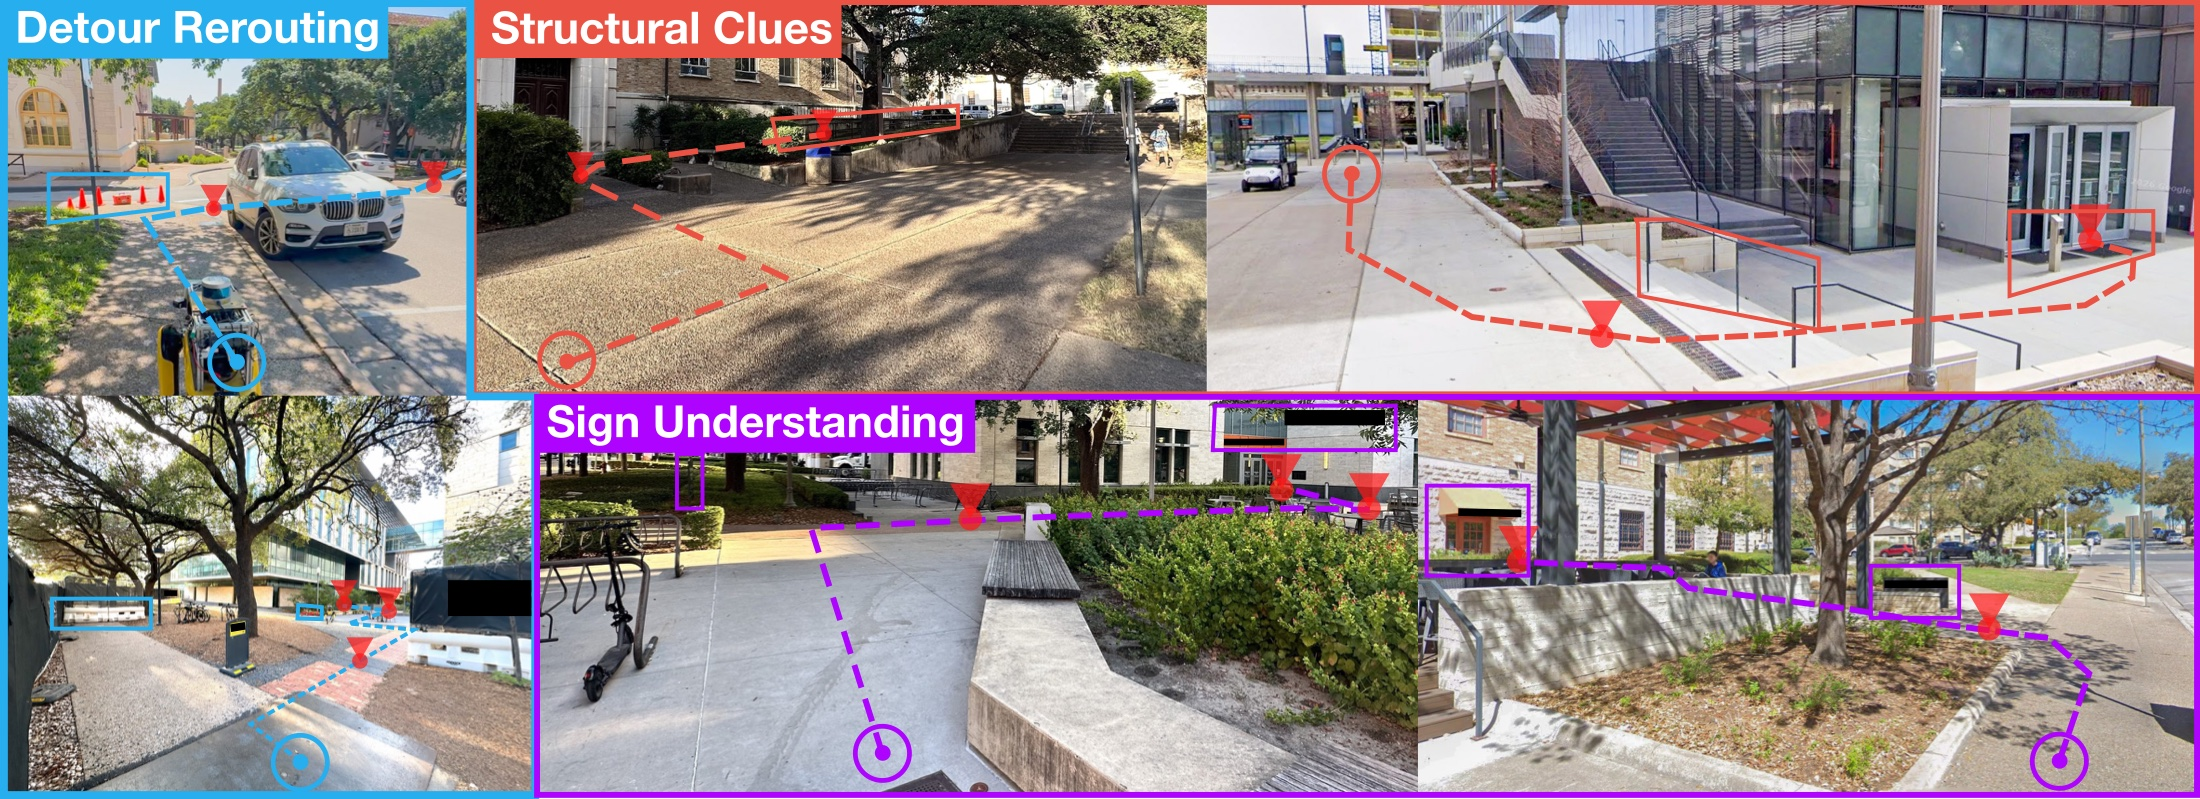
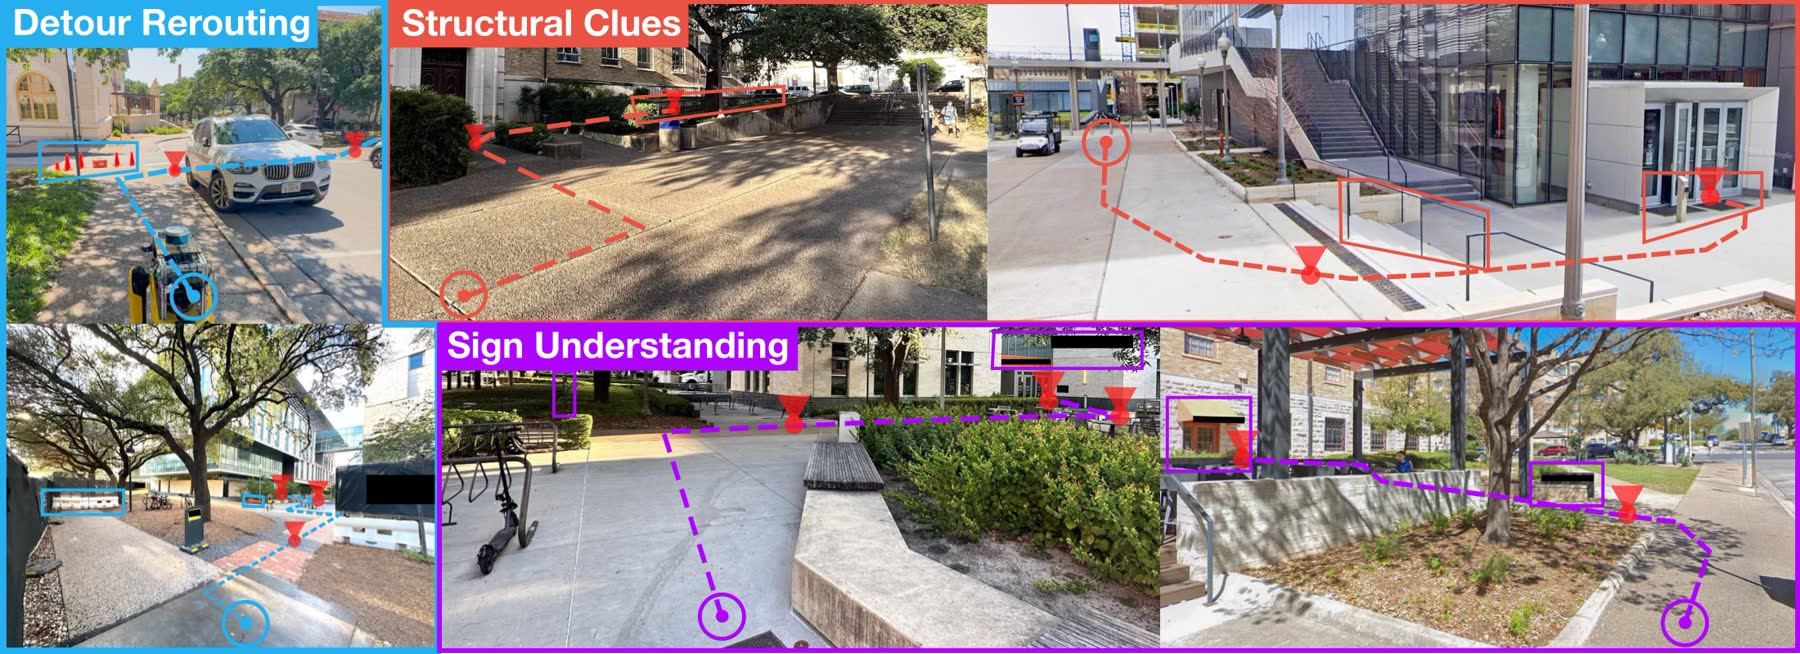
Optimized image and video loading

diff --git a/index.html b/index.html
@@ -64,19 +64,18 @@
   <section id="abstract">
     <div class="wrap">
       <p class="section-kicker">Abstract</p>
-      <h2>Discovering which cues matter, then planning around them.</h2>
+      <h2>Discovering which cues matter, then planning using them.</h2>
 
-      <p>Open-world mapless navigation from sparse language instructions requires resolving underspecified goals and
-        inferring which environmental cues are relevant for reaching the goal&mdash;e.g., interpreting ramps, signs, or
-        detours that reveal where to go or which route to take. Prior works rely on closed-set factor categories or
-        identify cues before motion planning, missing plan-dependent cues. We argue that pretrained Vision-Language
-        Models (VLMs) can discover novel instruction-relevant cues, but require adaptation to focus on which cues matter
-        and how they should influence motion planning. We present <strong>Foresight</strong>, a test-time framework in
-        which a finetuned VLM alternates between proposing image-space motion plans and critiquing them using the
-        language goal and visual context, with subsequent plans conditioned on prior critiques to enable iterative
-        motion refinement before execution. To align critiques and refinements with open-set behavior preferences, we
-        learn a reward model from human feedback and use it to post-train the VLM with reinforcement learning in the
-        plan-critique loop. In offline evaluations and 6 real-world environments, Foresight improves average task
+      <p>Open-world mapless navigation from sparse language instructions requires inferring which environmental cues
+        matter &mdash; the ramp, sign, or detour that reveals where to go. Prior works draw cues from closed-set factor
+        categories or identify them before motion planning, missing plan-dependent cues. Pretrained Vision-Language
+        Models (VLMs) can discover such cues, but require adaptation to act on them.</p>
+
+      <p>We present <strong>Foresight</strong>, a test-time framework in which a finetuned VLM alternates between
+        proposing image-space motion plans and critiquing them against the language goal and visual context,
+        conditioning each plan on prior critiques to refine its motion before execution. A reward model learned from
+        human feedback post-trains the VLM with reinforcement learning inside this loop, aligning it with open-set
+        behavior preferences. Across offline evaluations and 6 real-world environments, Foresight improves average task
         success by <strong>37%</strong> and reduces interventions per mission by <strong>52%</strong> relative to
         state-of-the-art test-time reasoning and foundation-model baselines, while running in real-time on a Jetson AGX
         Orin.</p>
@@ -100,8 +99,11 @@
     <div class="wrap-wide">
       <figure class="fig-single wide">
         <div class="imgwrap">
-          <a href="./static/images/mainfigure.png">
-            <img src="./static/images/mainfigure.png" alt="Foresight architecture overview" loading="lazy">
+          <a href="./static/images/mainfigure.jpg">
+            <picture>
+              <source srcset="./static/images/mainfigure.webp" type="image/webp">
+              <img src="./static/images/mainfigure.jpg" alt="Foresight architecture overview" loading="lazy">
+            </picture>
           </a>
         </div>
         <figcaption><strong>Figure 1.</strong> The Foresight loop. A single finetuned VLM alternates between proposing
@@ -115,12 +117,13 @@
   <section id="training">
     <div class="wrap">
       <p class="section-kicker">Training</p>
-      <h2>Supervised finetuning, then preference reinforcement learning.</h2>
+      <h2>Supervised finetuning, then reinforcement learning with human preferences.</h2>
 
-      <p>To adapt pretrained VLMs for iterative refinement, we introduce a two-stage training recipe. We first apply
+      <p>To adapt pretrained VLMs for iterative refinement, we propose a simple two-stage training recipe. We first
+        apply
         supervised finetuning to teach the VLM the structure of the plan-critique loop. We then learn a reward model
         from human preference annotations to judge motion plan quality, and use it to post-train the VLM with
-        reinforcement learning &mdash; aligning critiques and refinements with open-set behavior preferences that are
+        reinforcement learning, aligning critiques and refinements with open-set behavior preferences that are
         difficult to capture with hand-designed objectives alone.</p>
     </div>
 
@@ -156,9 +159,12 @@
       <figure class="fig-single wide">
         <div class="imgwrap">
           <a href="./static/images/trainingdataset-satellite.jpg">
-            <img src="./static/images/trainingdataset-satellite.jpg"
-              alt="Satellite map with disjoint training, offline evaluation, and online evaluation regions, alongside example training instructions and held-out test episodes with plan critiques."
-              loading="lazy">
+            <picture>
+              <source srcset="./static/images/trainingdataset-satellite.webp" type="image/webp">
+              <img src="./static/images/trainingdataset-satellite.jpg"
+                alt="Satellite map with disjoint training, offline evaluation, and online evaluation regions, alongside example training instructions and held-out test episodes with plan critiques."
+                loading="lazy">
+            </picture>
           </a>
         </div>
         <figcaption><strong>Figure 3.</strong> <em>Left:</em> training, offline evaluation, and online evaluation
@@ -185,9 +191,12 @@
       <figure class="fig-single wide">
         <div class="imgwrap">
           <a href="./static/images/testinglocations.jpg">
-            <img src="./static/images/testinglocations.jpg"
-              alt="Six real-world deployment scenes grouped into detour rerouting, structural clues, and sign understanding, each with the executed route overlaid."
-              loading="lazy">
+            <picture>
+              <source srcset="./static/images/testinglocations.webp" type="image/webp">
+              <img src="./static/images/testinglocations.jpg"
+                alt="Six real-world deployment scenes grouped into detour rerouting, structural clues, and sign understanding, each with the executed route overlaid."
+                loading="lazy">
+            </picture>
           </a>
         </div>
         <figcaption><strong>Figure 4.</strong> The six deployment sites with executed routes overlaid. Detour rerouting
@@ -216,10 +225,13 @@
     <div class="wrap-wide">
       <figure class="fig-single wide">
         <div class="imgwrap">
-          <a href="./static/images/robotexperiments.png">
-            <img src="./static/images/robotexperiments.png"
-              alt="Left: average interventions per waypoint by cue category. Right: real-world success rate against intervention budget per waypoint."
-              loading="lazy">
+          <a href="./static/images/robotexperiments.jpg">
+            <picture>
+              <source srcset="./static/images/robotexperiments.webp" type="image/webp">
+              <img src="./static/images/robotexperiments.jpg"
+                alt="Left: average interventions per waypoint by cue category. Right: real-world success rate against intervention budget per waypoint."
+                loading="lazy">
+            </picture>
           </a>
         </div>
         <figcaption><strong>Figure 5.</strong> <em>Left:</em> average interventions per waypoint, overall and split by
@@ -305,10 +317,13 @@
     <div class="wrap-wide">
       <figure class="fig-single wide">
         <div class="imgwrap">
-          <a href="./static/images/combined_ablations_hausdorff.png">
-            <img src="./static/images/combined_ablations_hausdorff.png"
-              alt="Three boxplot panels of Hausdorff distance against refinement iteration: baseline comparisons, reward design ablations, and motion planner and critic ablations."
-              loading="lazy">
+          <a href="./static/images/combined_ablations_hausdorff.jpg">
+            <picture>
+              <source srcset="./static/images/combined_ablations_hausdorff.webp" type="image/webp">
+              <img src="./static/images/combined_ablations_hausdorff.jpg"
+                alt="Three boxplot panels of Hausdorff distance against refinement iteration: baseline comparisons, reward design ablations, and motion planner and critic ablations."
+                loading="lazy">
+            </picture>
           </a>
         </div>
         <figcaption><strong>Figure 6.</strong> Hausdorff distance to the reference plan against refinement iteration;

diff --git a/static/js/main.js b/static/js/main.js
@@ -64,7 +64,7 @@ if (switcher) {
       if (tab.dataset.poster) video.poster = tab.dataset.poster;
       if (caption && tab.dataset.caption) caption.textContent = tab.dataset.caption;
       video.load();
-      video.play().catch(function () {});
+      video.play().catch(function () { });
     });
   });
 }
@@ -74,7 +74,7 @@ var lazyVideos = document.querySelectorAll('video[data-autoplay]');
 if (lazyVideos.length && 'IntersectionObserver' in window) {
   var observer = new IntersectionObserver(function (entries) {
     entries.forEach(function (entry) {
-      if (entry.isIntersecting) entry.target.play().catch(function () {});
+      if (entry.isIntersecting) entry.target.play().catch(function () { });
       else entry.target.pause();
     });
   }, { threshold: 0.25 });

diff --git a/static/css/index.css b/static/css/index.css
@@ -353,6 +353,11 @@ ul.notes strong {
   line-height: 0
 }
 
+/* <picture> only selects a source; the <img> inside it carries the layout. */
+.imgwrap picture {
+  display: contents
+}
+
 figcaption {
   font-family: "Inter", sans-serif;
   font-size: .85rem;

diff --git a/serve.py b/serve.py
@@ -1,0 +1,136 @@
+#!/usr/bin/env python3
+"""Local preview server for the project page.
+
+`python3 -m http.server` ignores the Range header, so every <video> with
+preload="metadata" ends up streaming its whole file instead of just the moov
+header. Four such downloads saturate the browser's per-origin connection limit
+and the figures below them stall for tens of seconds -- a problem that does not
+exist on GitHub Pages. This server answers ranged requests the way a real host
+does, so local previews reflect production timing.
+
+Usage:
+    python3 serve.py [port]
+"""
+
+import mimetypes
+import os
+import re
+import sys
+from http.server import SimpleHTTPRequestHandler, ThreadingHTTPServer
+
+mimetypes.add_type("image/webp", ".webp")
+mimetypes.add_type("video/mp4", ".mp4")
+
+ROOT = os.path.dirname(os.path.abspath(__file__))
+
+
+class RangeHandler(SimpleHTTPRequestHandler):
+    # Keep-alive matters too: HTTP/1.0 forces a new connection per asset.
+    protocol_version = "HTTP/1.1"
+
+    def __init__(self, *args, **kwargs):
+        super().__init__(*args, directory=ROOT, **kwargs)
+
+    def end_headers(self):
+        # Always serve the file on disk, so edits show up on reload.
+        self.send_header("Cache-Control", "no-store")
+        super().end_headers()
+
+    def send_head(self):
+        path = self.translate_path(self.path)
+        if os.path.isdir(path):
+            path = os.path.join(path, "index.html")
+        if not os.path.isfile(path):
+            self.send_error(404, "Not found")
+            return None
+
+        size = os.path.getsize(path)
+        ctype = self.guess_type(path)
+        rng = self.headers.get("Range")
+        f = open(path, "rb")
+
+        if not rng:
+            self.send_response(200)
+            self.send_header("Content-Type", ctype)
+            self.send_header("Content-Length", str(size))
+            self.send_header("Accept-Ranges", "bytes")
+            self.end_headers()
+            return f
+
+        match = re.match(r"bytes=(\d*)-(\d*)\s*$", rng)
+        if not match:
+            f.close()
+            self.send_error(400, "Malformed Range header")
+            return None
+
+        start, end = match.group(1), match.group(2)
+        if start:
+            start = int(start)
+            end = int(end) if end else size - 1
+        else:
+            # A suffix range ("bytes=-500") asks for the final N bytes.
+            start, end = max(0, size - int(end)), size - 1
+        end = min(end, size - 1)
+
+        if start > end or start >= size:
+            f.close()
+            self.send_response(416)
+            self.send_header("Content-Range", f"bytes */{size}")
+            self.send_header("Content-Length", "0")
+            self.end_headers()
+            return None
+
+        f.seek(start)
+        self.send_response(206)
+        self.send_header("Content-Type", ctype)
+        self.send_header("Content-Range", f"bytes {start}-{end}/{size}")
+        self.send_header("Content-Length", str(end - start + 1))
+        self.send_header("Accept-Ranges", "bytes")
+        self.end_headers()
+        return _Slice(f, end - start + 1)
+
+    def handle_one_request(self):
+        # Media elements abort requests routinely; that is not worth a traceback.
+        try:
+            super().handle_one_request()
+        except (BrokenPipeError, ConnectionResetError):
+            self.close_connection = True
+
+    def log_message(self, fmt, *args):
+        sys.stderr.write("%s %s\n" % (self.log_date_time_string(), fmt % args))
+
+
+class _Slice:
+    """Read-only view of the first `remaining` bytes, for 206 responses."""
+
+    def __init__(self, f, remaining):
+        self.f = f
+        self.remaining = remaining
+
+    def read(self, n=-1):
+        if self.remaining <= 0:
+            return b""
+        if n < 0 or n > self.remaining:
+            n = self.remaining
+        chunk = self.f.read(n)
+        self.remaining -= len(chunk)
+        return chunk
+
+    def close(self):
+        self.f.close()
+
+
+def main():
+    port = int(sys.argv[1]) if len(sys.argv) > 1 else 8000
+    server = ThreadingHTTPServer(("127.0.0.1", port), RangeHandler)
+    server.daemon_threads = True
+    print(f"Serving {ROOT} at http://localhost:{port} (Ctrl-C to stop)")
+    try:
+        server.serve_forever()
+    except KeyboardInterrupt:
+        print("\nStopped.")
+        server.server_close()
+
+
+if __name__ == "__main__":
+    main()
